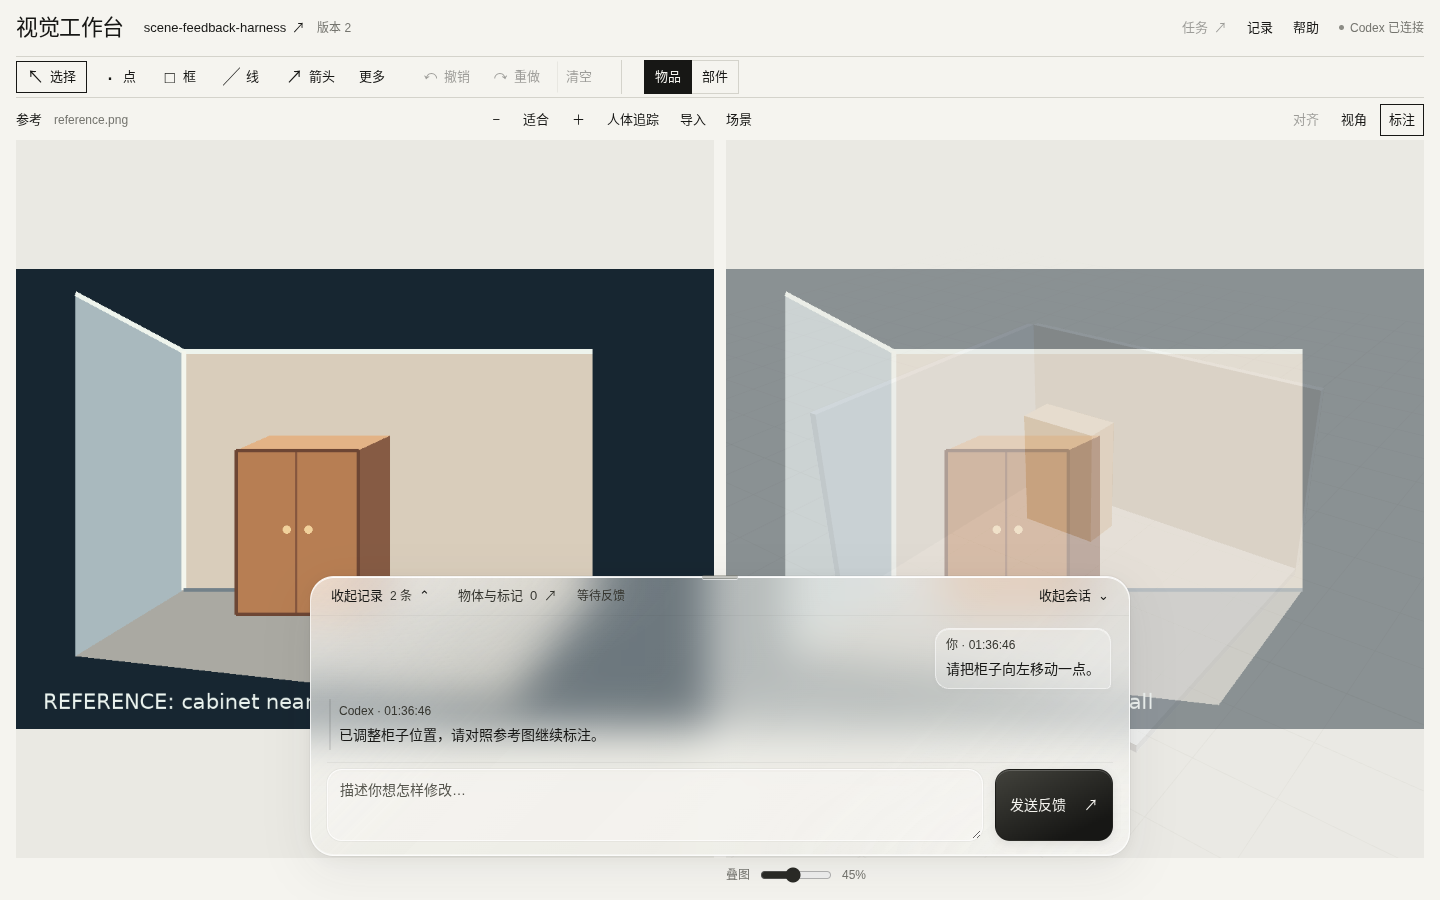
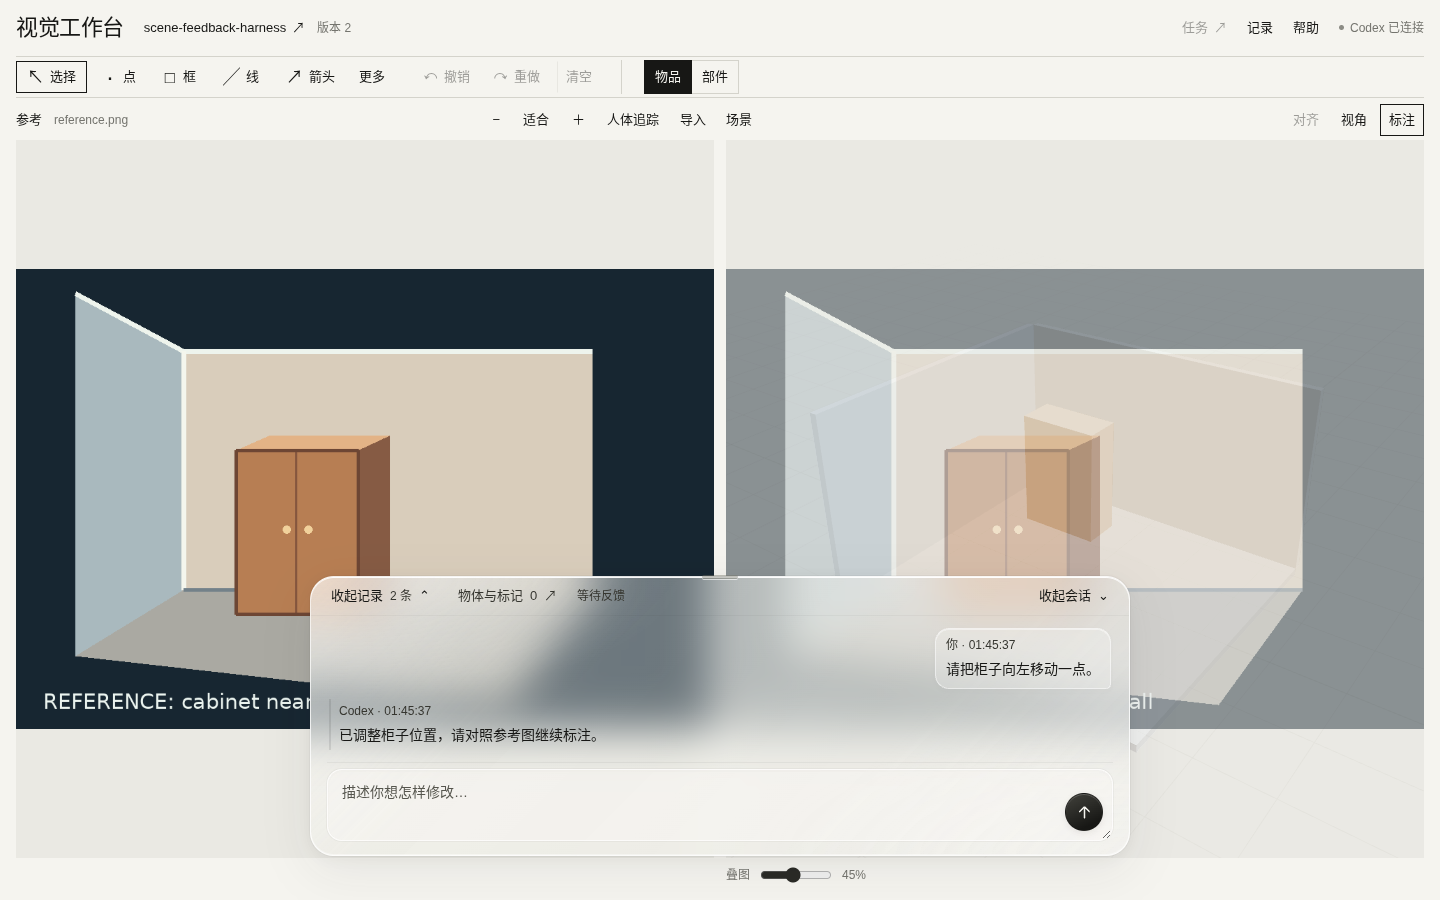
Expand prompt field and use a circular send button

Changed region(s): [[0.6875, 0.84, 0.7812, 0.9333], [0.2188, 0.8711, 0.3125, 0.9022]]

diff --git a/web/styles.css b/web/styles.css
@@ -234,12 +234,14 @@ input[type=range] { accent-color: #292925; }
 .text-button, .reference-insert { padding: 3px 0; color: var(--muted); background: transparent; font-size: var(--text-control); white-space: nowrap; font-weight: 500; }
 .text-button:hover, .reference-insert:hover { color: var(--ink); text-decoration: underline; text-underline-offset: 4px; }
 .selected-reference-insert { font-size: var(--text-caption); text-decoration: underline; text-underline-offset: 3px; }
-.composer { flex: none; display: flex; align-items: flex-start; gap: 12px; }
-.prompt-field { min-width: 0; flex: 1; }
-#feedback-note { display: block; width: 100%; height: 72px; min-height: 72px; max-height: 192px; padding: 10px 12px; border: 1px solid #ffffffb3; border-radius: 15px; resize: vertical; font-size: var(--text-body); line-height: 1.55; background: #faf9f570; box-shadow: inset 0 1px 3px #17171505, 0 0 0 1px #1717150a; transition: background .16s, box-shadow .16s; }
+.composer { flex: none; min-width: 0; }
+.prompt-field { min-width: 0; }
+.prompt-input { position: relative; }
+#feedback-note { display: block; width: 100%; height: 72px; min-height: 72px; max-height: 192px; padding: 12px 60px 12px 14px; border: 1px solid #ffffffb3; border-radius: 15px; resize: vertical; font-size: var(--text-body); line-height: 1.55; background: #faf9f570; box-shadow: inset 0 1px 3px #17171505, 0 0 0 1px #1717150a; transition: background .16s, box-shadow .16s; }
 #feedback-note::placeholder { color: #56564e; }
 #feedback-note:focus { border-color: #ffffffed; background: #faf9f5a6; box-shadow: 0 0 0 2px #17171526, inset 0 1px 0 #fff; outline: none; }
-.submit-button { display: flex; align-items: center; justify-content: space-between; gap: 18px; min-width: 112px; min-height: 72px; padding: 11px 14px; background: linear-gradient(155deg, #42423c, var(--ink) 80%); color: var(--paper); border: 1px solid #17171573; border-radius: 15px; box-shadow: inset 0 1px 0 #ffffff30, 0 3px 10px #17171518; font-size: var(--text-body); font-weight: 600; margin-top: 0; transition: box-shadow .16s; }
+.submit-button { position: absolute; right: 10px; bottom: 10px; display: grid; place-items: center; width: 38px; height: 38px; padding: 0; background: linear-gradient(155deg, #42423c, var(--ink) 80%); color: var(--paper); border: 1px solid #17171573; border-radius: 50%; box-shadow: inset 0 1px 0 #ffffff30, 0 2px 7px #17171518; transition: box-shadow .16s; }
+.submit-button svg { width: 19px; height: 19px; pointer-events: none; }
 .submit-button:hover:not(:disabled) { box-shadow: inset 0 1px 0 #ffffff52, 0 5px 16px #17171526; }
 #submit-caption { margin: 6px 0 0; color: var(--muted); font-size: var(--text-caption); line-height: 1.5; overflow: hidden; text-overflow: ellipsis; white-space: nowrap; }
 dialog { color: var(--ink); background: var(--paper); border: 1px solid var(--ink); padding: 26px; max-width: min(650px, calc(100vw - 32px)); max-height: calc(100dvh - 48px); scrollbar-width: thin; }
@@ -403,9 +405,7 @@ dialog::backdrop { background: #17171522; }
   .selection-summary { gap: 9px; }
   .selected-name { max-width: 230px; }
   .selected-reference-insert { max-width: 120px; }
-  .composer { gap: 10px; align-items: flex-start; }
   #feedback-note { font-size: 16px; line-height: 1.5; }
-  .submit-button { min-width: 86px; padding: 10px; gap: 8px; font-size: var(--text-control); margin-top: 0; }
   #submit-caption { white-space: normal; font-size: var(--text-caption); }
   .side-dialog { width: 100vw; padding: 22px; }
   .popover-content { max-width: calc(100vw - 40px); }

diff --git a/web/app.js b/web/app.js
@@ -459,15 +459,23 @@ async function clearOutbox() {
   try { localStorage.removeItem(outboxKey()); } catch { /* Ignore unavailable local storage. */ }
 }
 
+function setSubmitLabel(label) {
+  const text = ui.submit.querySelector('[data-submit-label]');
+  if (text) text.textContent = label;
+  ui.submit.setAttribute('aria-label', label);
+  ui.submit.setAttribute('aria-busy', String(state.submitting));
+  ui.submit.title = label;
+}
+
 function updateSubmitLabel() {
   updateAnnotationHistory();
   const status = state.agent?.status || 'disconnected';
   if (state.deliveryMode === 'external') {
     const bound = !!state.boundThreadId;
-    const label = state.pendingSubmission ? '重试发送'
+    const label = state.submitting ? '正在发送…' : state.pendingSubmission ? '重试发送'
       : bound && ['running', 'awaiting_approval', 'waiting'].includes(status) ? '加入下一轮'
       : bound ? '发送反馈' : '保存反馈';
-    ui.submit.querySelector('span:first-child').textContent = label;
+    setSubmitLabel(label);
     ui.submit.disabled = !state.workspaceReady || !Number.isInteger(state.sceneRevision) || state.sessionStatus !== 'open' || state.sceneLoading || state.submitting || state.uploading || state.creatingProject || state.navigatingProject;
     ui.note.disabled = state.sessionStatus !== 'open' || state.submitting || !!state.pendingSubmission;
     ui.referenceInput.disabled = state.sessionStatus !== 'open' || !!state.pendingSubmission || state.creatingProject || state.navigatingProject;
@@ -484,11 +492,11 @@ function updateSubmitLabel() {
       : bound ? '' : '反馈先保存，等待 MCP 工具读取。';
     return;
   }
-  const label = state.pendingSubmission ? '重试发送'
+  const label = state.submitting ? '正在发送…' : state.pendingSubmission ? '重试发送'
     : ['running', 'awaiting_approval', 'waiting'].includes(status) ? '加入下一轮'
     : status === 'disconnected' || status === 'error' ? '保存反馈'
     : '发送反馈';
-  ui.submit.querySelector('span:first-child').textContent = label;
+  setSubmitLabel(label);
   ui.submit.disabled = !state.workspaceReady || !Number.isInteger(state.sceneRevision) || state.sessionStatus !== 'open' || state.sceneLoading || state.submitting || state.uploading || state.creatingProject || state.navigatingProject;
   ui.note.disabled = state.sessionStatus !== 'open' || state.submitting || !!state.pendingSubmission;
   ui.referenceInput.disabled = state.sessionStatus !== 'open' || !!state.pendingSubmission || state.creatingProject || state.navigatingProject;
@@ -3880,7 +3888,7 @@ async function submitFeedback() {
   renderTimeline();
   ui.submit.disabled = true;
   ui.note.disabled = true;
-  ui.submit.querySelector('span:first-child').textContent = '准备图片…';
+  setSubmitLabel('准备图片…');
   try {
     if (!state.pendingSubmission) {
       const payload = await feedbackPayload(referencedSceneNodes, promptText);
@@ -3892,7 +3900,7 @@ async function submitFeedback() {
       try { await writeOutbox(state.pendingSubmission); }
       catch (error) { state.pendingSubmission = null; throw error; }
     }
-    ui.submit.querySelector('span:first-child').textContent = '正在发送…';
+    setSubmitLabel('正在发送…');
     const result = await api('/api/sessions/' + encodeURIComponent(state.sessionId) + '/feedback', {
       method:'POST', body:state.pendingSubmission.payload
     });

diff --git a/web/index.html b/web/index.html
@@ -81,7 +81,7 @@
             <button id="chat-latest" class="chat-latest hidden" type="button">回到最新 ↓</button>
           </section>
           <div class="feedback-heading"><div class="selection-card"><div id="selection-summary" class="selection-summary muted">未选对象也能提交。</div><button id="clear-selection" type="button" class="text-button hidden" title="取消选择">×</button></div></div>
-          <div class="composer"><div class="prompt-field"><label for="feedback-note" class="visually-hidden">修改意见</label><textarea id="feedback-note" rows="2" maxlength="10000" placeholder="描述你想怎样修改…" aria-describedby="submit-caption"></textarea><p id="submit-caption" role="status"></p></div><button id="submit-button" class="submit-button" type="button"><span>发送反馈</span><span aria-hidden="true">↗</span></button></div>
+          <div class="composer"><div class="prompt-field"><label for="feedback-note" class="visually-hidden">修改意见</label><div class="prompt-input"><textarea id="feedback-note" rows="2" maxlength="10000" placeholder="描述你想怎样修改…" aria-describedby="submit-caption"></textarea><button id="submit-button" class="submit-button" type="button" aria-label="发送反馈" title="发送反馈 · Ctrl / ⌘ Enter"><span class="visually-hidden" data-submit-label>发送反馈</span><svg viewBox="0 0 24 24" fill="none" stroke="currentColor" stroke-width="1.8" stroke-linecap="round" stroke-linejoin="round" aria-hidden="true" focusable="false"><path d="M12 19V5m-6 6 6-6 6 6" /></svg></button></div><p id="submit-caption" role="status"></p></div></div>
         </div>
       </section>
       <button id="chat-launcher" class="chat-launcher hidden" type="button" aria-controls="chat-dock" aria-expanded="false" title="展开会话，查看回复或发送修改意见"><svg viewBox="0 0 20 20" fill="none" stroke="currentColor" stroke-width="1.3" aria-hidden="true"><path d="M16 3H4a2 2 0 0 0-2 2v8a2 2 0 0 0 2 2h2v3l4-3h6a2 2 0 0 0 2-2V5a2 2 0 0 0-2-2Z"/><path d="M6 7h8M6 11h5"/></svg><span>展开会话</span><span id="chat-unread-count" class="chat-unread-count hidden">0</span></button>

diff --git a/README.en.md b/README.en.md
@@ -46,7 +46,7 @@ The page retains its warm off-white background and black or gray controls, with 
 
 Collapsing the dock keeps the current unsent draft, marks, camera, and frozen evidence intact, so you can keep selecting and annotating. Inserting an object, mark, or human-pose reference opens the prompt automatically. Drag the thin handle along the top edge to resize the dock; pulling upward shows more history. Double-click it to restore the default size, or focus it and use the up/down arrow keys. Collapse preferences and the custom height are saved per workspace session in this browser and restored on reload; smaller windows clamp the height to fit. New messages show an unread count without opening the dock. Reading older messages preserves your scroll position; use the latest-message button to catch up. The dock replays recent persisted workspace messages, displaying up to 100 entries. In unbound external MCP mode, later model replies still appear in the original Codex task.
 
-The bottom button normally reads `发送反馈` (send feedback). While the task is running it reads `加入下一轮` (queue for the next turn). You can also send with `Ctrl/Cmd + Enter`; confirming an IME composition does not submit. When viewing an older scene snapshot, a button such as `标注 v13 · 查看最新 v15 ↗` appears below the overlay controls; click it to view the latest live scene. The current round’s unsent snapshot and marks remain available. Once the server confirms that it saved feedback, they are cleared from the editor; the submitted packet retains the complete evidence.
+The prompt fills the dock width, with a circular up-arrow send button in its lower-right corner. Its tooltip and accessible name show `发送反馈` (send feedback), or `加入下一轮` (queue for the next turn) while the task is running. You can also send with `Ctrl/Cmd + Enter`; confirming an IME composition does not submit. When viewing an older scene snapshot, a button such as `标注 v13 · 查看最新 v15 ↗` appears below the overlay controls; click it to view the latest live scene. The current round’s unsent snapshot and marks remain available. Once the server confirms that it saved feedback, they are cleared from the editor; the submitted packet retains the complete evidence.
 
 ## What you can do on the page
 

diff --git a/README.md b/README.md
@@ -46,7 +46,7 @@
 
 收起会话后可继续点选和标注，当前未发送的草稿、标记、相机和截图保持原样；插入物体、标记或人体引用时会自动展开输入框。拖动会话框顶部的细条可调整高度，向上拉可显示更多聊天记录；双击恢复默认，也可聚焦细条后用上下方向键微调。折叠状态和自定义高度按工作台会话保存在本机浏览器，刷新后恢复；小窗口会自动限制高度。新消息不会自动展开会话，入口会显示未读数量；查看旧消息时不会强制滚到底部，可点击「查看新消息 / 回到最新」。聊天区回放工作台已保存的近期消息，最多显示 100 条；未绑定任务的外部 MCP 模式，后续模型回复仍需在原 Codex 任务查看。
 
-底部按钮通常显示「发送反馈」；任务正在执行时显示「加入下一轮」，反馈会排队，也可按 `Ctrl/Cmd + Enter` 发送；中文输入法确认候选字时不会触发快捷发送。查看旧场景快照时，叠图下方会显示类似「标注 v13 · 查看最新 v15 ↗」的按钮；点它查看最新实时场景，本轮未发送的快照和标记仍保留。服务器确认保存反馈后，这些内容会从编辑区清空，完整证据仍保存在已提交的反馈包中。
+输入框铺满会话宽度，右下角圆形上箭头用于发送；悬停提示和读屏名称会显示「发送反馈」或任务执行时的「加入下一轮」，后者会将反馈排队。也可按 `Ctrl/Cmd + Enter` 发送；中文输入法确认候选字时不会触发快捷发送。查看旧场景快照时，叠图下方会显示类似「标注 v13 · 查看最新 v15 ↗」的按钮；点它查看最新实时场景，本轮未发送的快照和标记仍保留。服务器确认保存反馈后，这些内容会从编辑区清空，完整证据仍保存在已提交的反馈包中。
 
 ## 页面能做什么
 

diff --git a/CHANGELOG.md b/CHANGELOG.md
@@ -6,6 +6,12 @@
 
 ## 2026-09-30
 
+### 01:47 · 输入框铺满并使用圆形箭头发送
+
+- 输入框延伸至会话右侧，原大块「发送反馈」按钮改为右下角 38px 圆形上箭头，保留原玻璃背景、配色和会话高度拖动。输入文字为按钮预留空间，状态说明仍在输入框下方，不遮住文字或按键。
+- 图标按钮保留发送、排队、保存、重试和发送中状态的悬停提示及读屏名称；保留键盘聚焦、原禁用条件、Ctrl / Cmd + Enter 与中文输入法防误发逻辑。
+- 原有 20 组隔离浏览器回归全部通过，覆盖发送去重、证据保存、拖动高度、窄屏与场景切换；24 个独立视觉状态检查通过，覆盖 340 / 390 / 768 / 1440 宽度、短屏、历史收起 / 展开、长输入和长状态提示。JavaScript 语法检查通过，已核对本机服务实际返回新版资源；未向真实会话提交反馈。
+
 ### 01:37 · 精简会话工具栏并支持拖动高度
 
 - 将「物体与标记」并入会话顶部同一排控件；没有选中对象时移除输入框上方空行。窄屏缩短入口文字、压缩长计数，保留完整的可访问名称和提示，整体配色与玻璃透明度不变。
